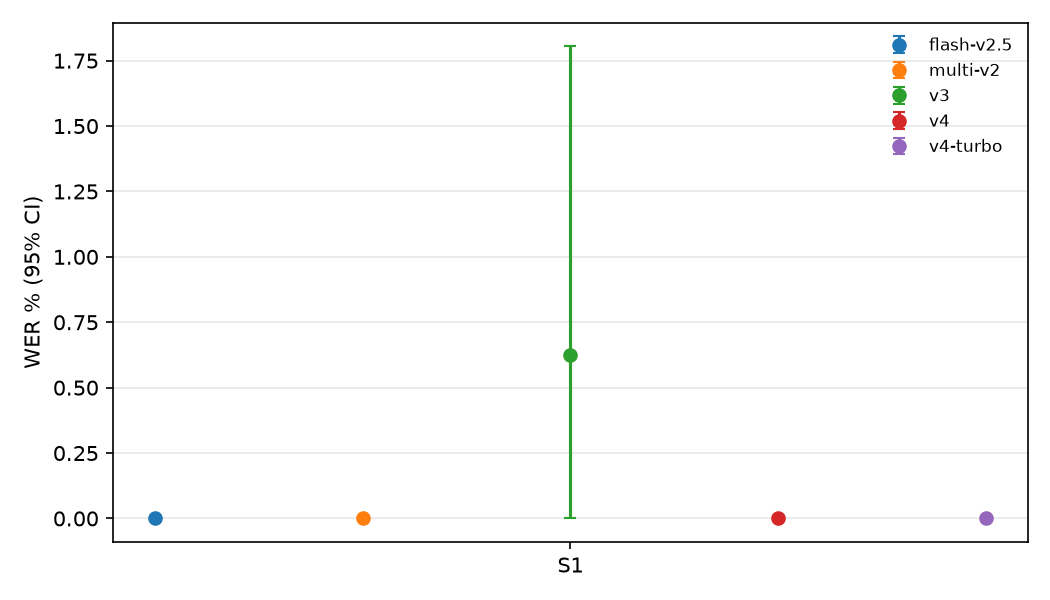
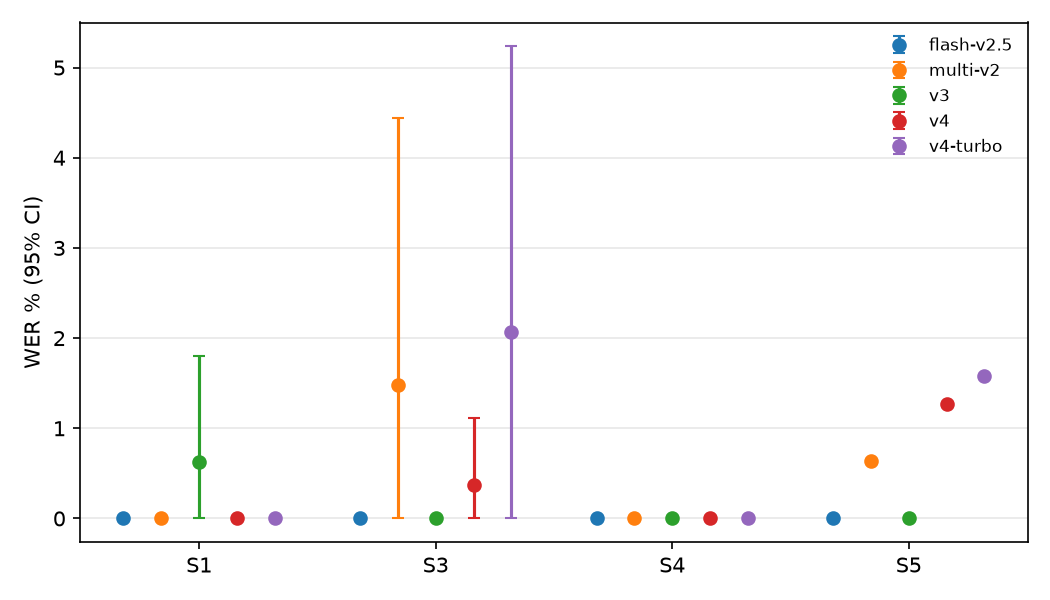
Audio results: S3-S5 for all five models

diff --git a/audio/results/summary_main.md b/audio/results/summary_main.md
@@ -1,34 +1,54 @@
 # audio-bench results (main)
 
-Generated 2026-11-21. ASR: faster-whisper large-v3, Whisper English normalizer. 95% CIs: cluster bootstrap over items, runs kept together.
+Generated 2026-11-24. ASR: faster-whisper large-v3, Whisper English normalizer. 95% CIs: cluster bootstrap over items, runs kept together.
 
 | Model | Suite | Metric | Estimate | 95% CI | Items x runs |
 |---|---|---|---|---|---|
-| flash-v2.5 | ALL | credits_used | 4,618 |  | 55 x 3 |
-| multi-v2 | ALL | credits_used | 9,237 |  | 55 x 3 |
-| v3 | ALL | credits_used | 9,237 |  | 55 x 3 |
-| v4 | ALL | credits_used | 9,237 |  | 55 x 3 |
-| v4-turbo | ALL | credits_used | 4,618 |  | 55 x 3 |
+| flash-v2.5 | ALL | credits_used | 6,569 |  | 83 x 3 |
+| multi-v2 | ALL | credits_used | 13,138 |  | 83 x 3 |
+| v3 | ALL | credits_used | 13,249 |  | 83 x 3 |
+| v4 | ALL | credits_used | 13,249 |  | 83 x 3 |
+| v4-turbo | ALL | credits_used | 6,624 |  | 83 x 3 |
 | flash-v2.5 | S2 | s2_pass | 16.0% | 4.0% - 32.0% | 25 x 3 |
 | multi-v2 | S2 | s2_pass | 20.0% | 4.0% - 36.0% | 25 x 3 |
 | v3 | S2 | s2_pass | 57.3% | 40.0% - 74.7% | 25 x 3 |
 | v4 | S2 | s2_pass | 68.0% | 49.3% - 85.3% | 25 x 3 |
 | v4-turbo | S2 | s2_pass | 72.0% | 54.7% - 88.0% | 25 x 3 |
-| flash-v2.5 | ALL | sec_per_char | 0.072 | 0.066 - 0.078 | 55 x 3 |
-| multi-v2 | ALL | sec_per_char | 0.074 | 0.068 - 0.080 | 55 x 3 |
-| v3 | ALL | sec_per_char | 0.080 | 0.072 - 0.089 | 55 x 3 |
-| v4 | ALL | sec_per_char | 0.088 | 0.080 - 0.098 | 55 x 3 |
-| v4-turbo | ALL | sec_per_char | 0.088 | 0.080 - 0.098 | 55 x 3 |
-| flash-v2.5 | ALL | ttfa_s | 0.600 | 0.578 - 0.625 | 55 x 3 |
-| multi-v2 | ALL | ttfa_s | 1.038 | 1.000 - 1.077 | 55 x 3 |
-| v3 | ALL | ttfa_s | 0.959 | 0.929 - 0.991 | 55 x 3 |
-| v4 | ALL | ttfa_s | 1.423 | 1.360 - 1.489 | 55 x 3 |
-| v4-turbo | ALL | ttfa_s | 0.828 | 0.786 - 0.874 | 55 x 3 |
+| flash-v2.5 | ALL | sec_per_char | 0.067 | 0.063 - 0.072 | 83 x 3 |
+| multi-v2 | ALL | sec_per_char | 0.069 | 0.065 - 0.074 | 83 x 3 |
+| v3 | ALL | sec_per_char | 0.072 | 0.066 - 0.079 | 83 x 3 |
+| v4 | ALL | sec_per_char | 0.081 | 0.075 - 0.088 | 83 x 3 |
+| v4-turbo | ALL | sec_per_char | 0.081 | 0.075 - 0.088 | 83 x 3 |
+| flash-v2.5 | ALL | ttfa_s | 0.540 | 0.515 - 0.565 | 83 x 3 |
+| multi-v2 | ALL | ttfa_s | 0.916 | 0.865 - 0.964 | 83 x 3 |
+| v3 | ALL | ttfa_s | 0.857 | 0.817 - 0.895 | 83 x 3 |
+| v4 | ALL | ttfa_s | 1.255 | 1.188 - 1.325 | 83 x 3 |
+| v4-turbo | ALL | ttfa_s | 0.696 | 0.645 - 0.746 | 83 x 3 |
 | flash-v2.5 | S1 | wer | 0.0% | 0.0% - 0.0% | 30 x 3 |
 | multi-v2 | S1 | wer | 0.0% | 0.0% - 0.0% | 30 x 3 |
 | v3 | S1 | wer | 0.6% | 0.0% - 1.8% | 30 x 3 |
 | v4 | S1 | wer | 0.0% | 0.0% - 0.0% | 30 x 3 |
 | v4-turbo | S1 | wer | 0.0% | 0.0% - 0.0% | 30 x 3 |
+| flash-v2.5 | S3 | wer | 0.0% | 0.0% - 0.0% | 15 x 3 |
+| multi-v2 | S3 | wer | 1.5% | 0.0% - 4.4% | 15 x 3 |
+| v3 | S3 | wer | 0.0% | 0.0% - 0.0% | 15 x 3 |
+| v4 | S3 | wer | 0.4% | 0.0% - 1.1% | 15 x 3 |
+| v4-turbo | S3 | wer | 2.1% | 0.0% - 5.2% | 15 x 3 |
+| flash-v2.5 | S4 | wer | 0.0% | 0.0% - 0.0% | 12 x 1 |
+| multi-v2 | S4 | wer | 0.0% | 0.0% - 0.0% | 12 x 1 |
+| v3 | S4 | wer | 0.0% | 0.0% - 0.0% | 12 x 1 |
+| v4 | S4 | wer | 0.0% | 0.0% - 0.0% | 12 x 1 |
+| v4-turbo | S4 | wer | 0.0% | 0.0% - 0.0% | 12 x 1 |
+| flash-v2.5 | S5 | wer | 0.0% |  | 1 x 1 |
+| multi-v2 | S5 | wer | 0.6% |  | 1 x 1 |
+| v3 | S5 | wer | 0.0% |  | 1 x 1 |
+| v4 | S5 | wer | 1.3% |  | 1 x 1 |
+| v4-turbo | S5 | wer | 1.6% |  | 1 x 1 |
+| flash-v2.5 | S5 | worst_chunk_wer | 0.0% |  | 1 x 1 |
+| multi-v2 | S5 | worst_chunk_wer | 7.4% |  | 1 x 1 |
+| v3 | S5 | worst_chunk_wer | 0.0% |  | 1 x 1 |
+| v4 | S5 | worst_chunk_wer | 7.4% |  | 1 x 1 |
+| v4-turbo | S5 | worst_chunk_wer | 7.4% |  | 1 x 1 |
 
 ## Pairwise S1 WER differences (paired bootstrap, Holm)
 
